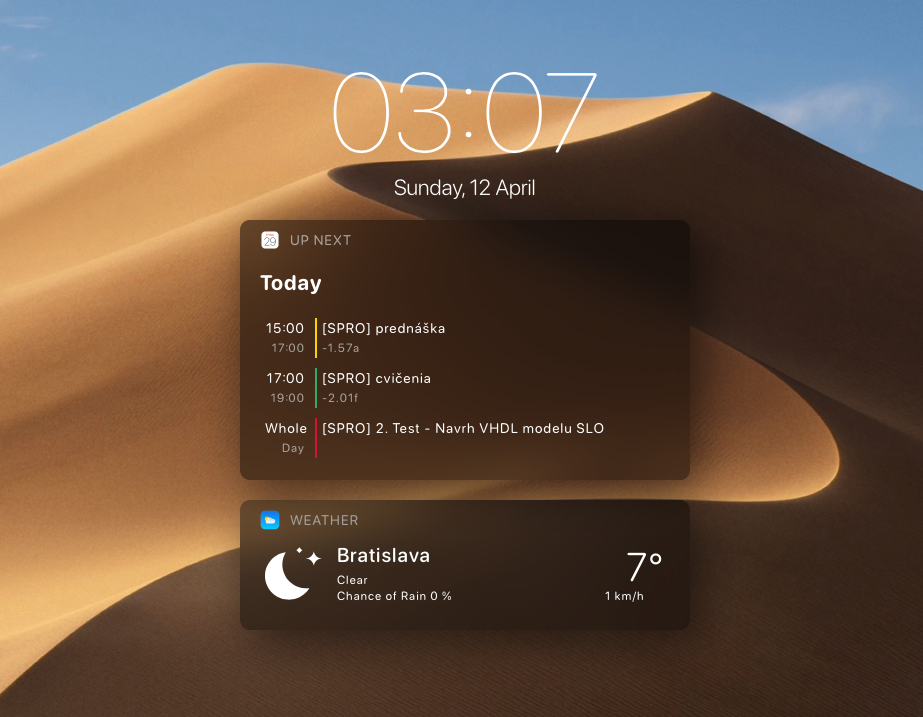
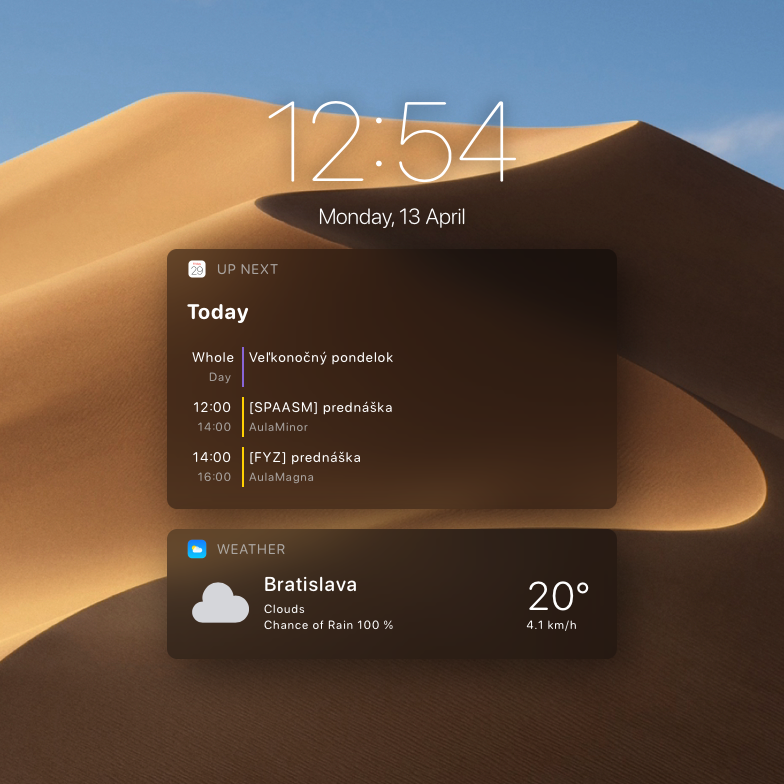
added light mode/dark mode option

diff --git a/README.md b/README.md
@@ -1,8 +1,7 @@
 # iOS widget section
 A simple iOS styled widget section for Übersicht. The reason of its creation was that i'm used to those widgets on my iPhone so i decided to recreate them for my computer. And also fun little project in JavaScript/CoffeScript.
 
-![Screenshot](screenshot1.png)
-![Screenshot](screenshot.png)
+![Screenshot](screenshot2.png)
 
 ## Features
 **Clock**
